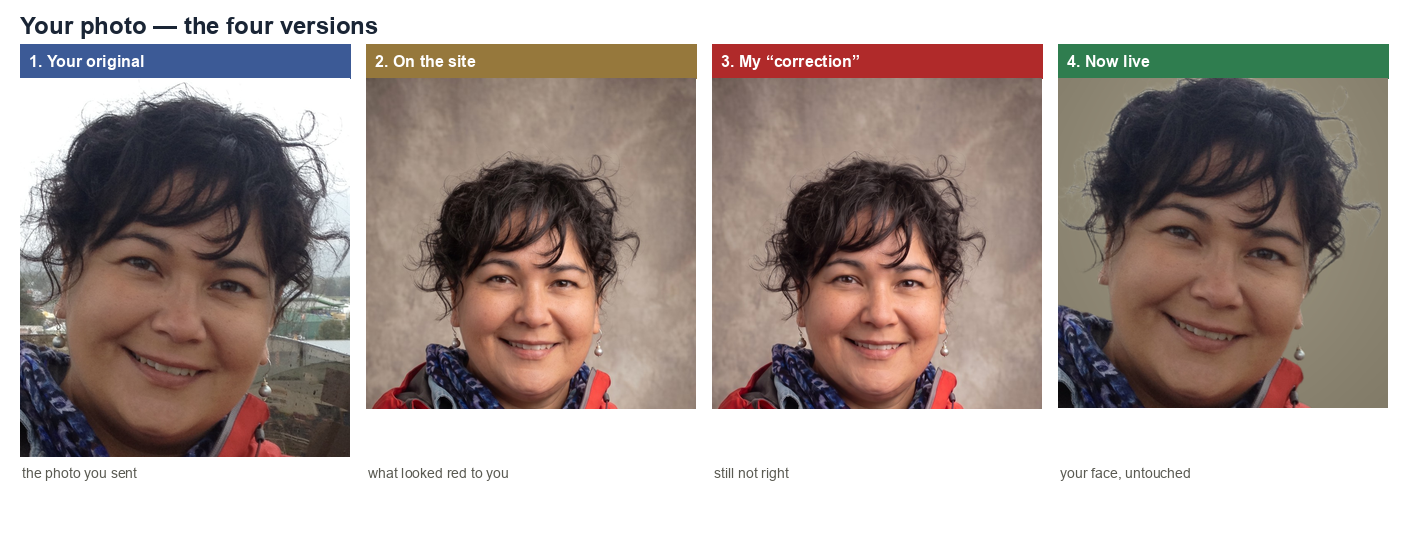
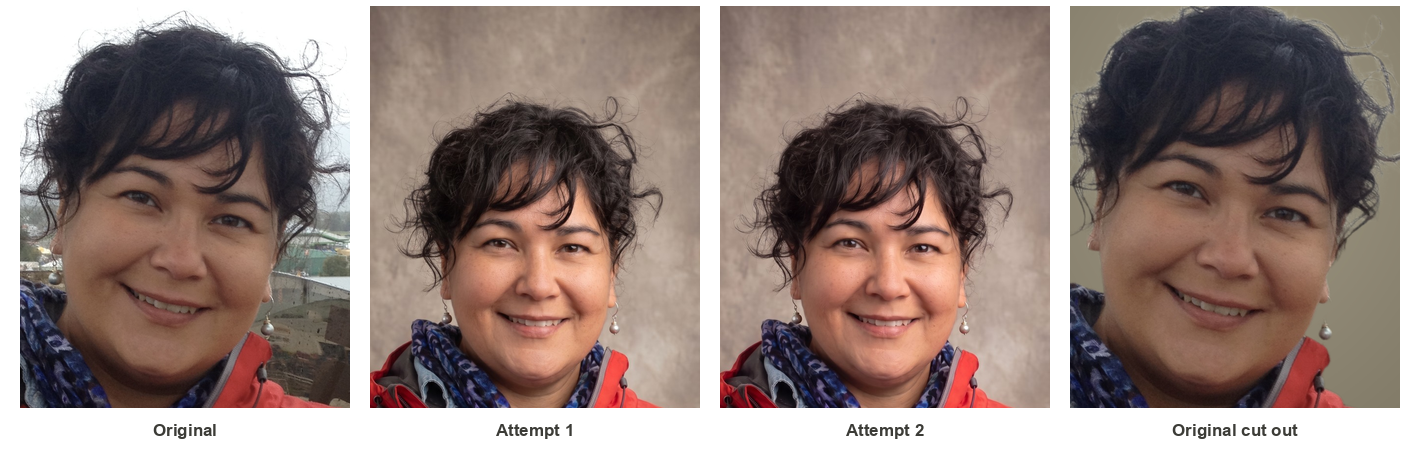
plan: Jaylene email reworded in Gary's framing (three options, temporal AI limit, redo planned)

diff --git a/plan/jaylene-photo-email-2026-07-30.html b/plan/jaylene-photo-email-2026-07-30.html
@@ -1,6 +1,6 @@
 <!DOCTYPE html><html lang="en"><head><meta charset="UTF-8">
 <meta name="viewport" content="width=device-width, initial-scale=1.0">
-<title>Jaylene — her eyes, finally right</title></head>
+<title>Jaylene — the photo options</title></head>
 <body style="margin:0; padding:24px; background:#ffffff; font-family:-apple-system,BlinkMacSystemFont,'Segoe UI',Roboto,Helvetica,Arial,sans-serif; color:#1a2535; line-height:1.6;">
 
 <div class="copy-control" style="max-width:600px; margin:0 0 10px; display:flex; align-items:center; gap:12px;">
@@ -11,43 +11,43 @@
   <span id="copy-status" style="font-size:13px; color:#4a5568;">Click, then paste into Gmail — the picture comes with it.</span>
 </div>
 <p style="max-width:600px;margin:0 0 22px;font-size:12.5px;color:#8a8a82;line-height:1.5;">
-  Copy-and-paste is what carries the image into Gmail. A draft created straight through the Gmail
-  API cannot — Gmail's compose window refuses to load images hosted elsewhere, which is why the
-  earlier drafts looked blank.
+  Your messaging, reworded. The only thing I added is the one-line confirmation about the Board of
+  Directors section &mdash; delete it if you've already told her separately.
 </p>
 
 <div id="email-body" style="max-width:600px; margin:0; background:#ffffff;">
 
-  <p style="margin:0 0 8px; font-size:13px; color:#4a5568;"><strong style="color:#1a2535;">Subject:</strong> Your photo — you were right, and it's fixed</p>
+  <p style="margin:0 0 8px; font-size:13px; color:#4a5568;"><strong style="color:#1a2535;">Subject:</strong> Your photo — where I've landed, and what I'd suggest</p>
 
   <p style="margin:0 0 16px;">Hi Jaylene,</p>
 
-  <p style="margin:0 0 16px;">Both done &mdash; and you were right all three times. I owe you an explanation.</p>
+  <p style="margin:0 0 16px;">First &mdash; your name is off the Board of Directors section.</p>
 
-  <p style="margin:0 0 16px;"><strong>Your name is off the Board of Directors section.</strong></p>
+  <p style="margin:0 0 16px;">On the photo, I want to be straight with you about the trade-offs, because I don't think there's a perfect answer today.</p>
 
-  <p style="margin:0 0 16px;"><strong>On your eyes:</strong> I kept telling you I was correcting a tint, and I kept not fixing it, because I misunderstood what had gone wrong. I finally put your original photo beside the site version and compared them properly. <strong>The AI hadn't just replaced your background &mdash; it had rebuilt your face.</strong> It opened your eyes wider than they are, brightened the whites, and added a glossy highlight that isn't in your photograph. That is exactly the &ldquo;red and glassy&rdquo; you kept describing. You were seeing something real; I was adjusting the wrong thing.</p>
+  <p style="margin:0 0 16px;">I run into this often: the AI can't quite deliver what we're after &mdash; <em>today</em>. Then I try again three or six months later and it can. That's genuinely how fast this is moving.</p>
 
-  <p style="margin:0 0 14px;">Here are all four versions, side by side:</p>
+  <p style="margin:0 0 16px;">The only way to keep your eyes exactly as they are in your original is to <strong>not</strong> let the AI regenerate the picture at all, and instead cut you out of your own photo and place you on a new background. And worth saying: the fact that AI can generate a face this close to yours would have been impossible a year ago. It really is remarkable. But close isn't the same, and those differences are what you've been seeing.</p>
 
-  <img src="https://res.cloudinary.com/dsbllwpbh/image/upload/f_auto,q_auto:good,w_1200/v1785440627/orbis/jaylene-4way-2026-07-30.png"
-       alt="Four versions: your original photo, the version on the site that looked red, my attempted correction, and the version now live with your face untouched"
-       style="display:block; width:100%; max-width:600px; height:auto; border:1px solid #dce3ed; border-radius:10px;">
-  <p style="margin:10px 0 22px; font-size:13px; color:#4a5568;">Look at 1 and 4 &mdash; those are the same face. Two and three are what the AI made of it.</p>
+  <p style="margin:0 0 14px;">So there are three options:</p>
 
-  <p style="margin:0 0 20px;"><strong>What's live now is different in an important way.</strong> Instead of asking AI to regenerate you against a studio background, I cut you out of your original photo and placed you on a plain backdrop. Cutting out only removes what is <em>behind</em> you &mdash; it never touches you. So every pixel of your face on the site is now your actual photograph: your eyes, your skin, your smile, exactly as you took them. The only thing that changed is what sits behind your shoulder.</p>
+  <ol style="margin:0 0 20px; padding-left:22px;">
+    <li style="margin-bottom:10px;"><strong>Keep the generated version.</strong> It sits consistently with the other staff photos, but the face isn't exactly yours.</li>
+    <li style="margin-bottom:10px;"><strong>Use the cut-out.</strong> Your face is completely untouched &mdash; but cutting out is the thing the AI struggles with most, and your picture ends up standing out from the others in a way I'm not keen on.</li>
+    <li style="margin-bottom:0;"><strong>Change nothing at all.</strong></li>
+  </ol>
 
-  <p style="margin:0 0 20px;">I also matched the backdrop tone and the head size to Robert's and Angie's portraits, so your card sits properly in the row rather than looking pasted in.</p>
+  <p style="margin:0 0 20px;">Honestly, I'm caught between two things I don't want. I don't want your photo standing out in a less flattering way than everyone else's. And I don't want you unhappy with the version that gives us consistency across the whole team.</p>
 
-  <p style="margin:0 0 28px;">
-    <table cellpadding="0" cellspacing="0" border="0" style="margin:0;"><tr><td bgcolor="#ED1C24" style="background-color:#ED1C24;border:2px solid #ED1C24;border-radius:8px;padding:12px 24px;"><a href="https://lim2026.netlify.app/about.html#team" style="color:#ffffff;text-decoration:none;font-weight:700;font-size:15px;font-family:-apple-system,BlinkMacSystemFont,'Segoe UI',Roboto,Helvetica,Arial,sans-serif;">Have a look on the About page &rarr;</a></td></tr></table>
-  </p>
+  <p style="margin:0 0 20px;">Here's what tips it for me. We want to redo all of these anyway, to bring in more cultural artifacts &mdash; in the clothing, the background, or both. And the site that's live right now shows no staff photos whatsoever. So there's no real cost to living with this as it is for the moment and doing it properly when we redo the whole set.</p>
 
-  <p style="margin:0 0 20px;"><strong>If you'd still rather use your photo completely untouched</strong> &mdash; your own background, the day at the fair and all &mdash; say the word and I'll put it up today. It won't match the other staff backdrops, and honestly that matters far less than you looking like yourself.</p>
+  <p style="margin:0 0 22px;">Let me know what you think &mdash; I'll go with whatever you're most comfortable with.</p>
 
-  <p style="margin:0 0 20px;">One last thing, plainly: this technology is good at backgrounds and bad at faces, and eyes are the first thing it gets wrong. You know your own face better than any of it does. You told me three times something was off, and you were right every time &mdash; thank you for not letting me talk you out of it.</p>
+  <img src="https://res.cloudinary.com/dsbllwpbh/image/upload/f_auto,q_auto:good,w_1200/v1785442571/orbis/jaylene-4way-v2.png"
+       alt="Four versions side by side: your original photo, attempt 1, attempt 2, and the original cut out"
+       style="display:block; width:100%; max-width:600px; height:auto;">
 
-  <p style="margin:0 0 24px;">Gary</p>
+  <p style="margin:22px 0 24px;">Gary</p>
 
 </div>
 
